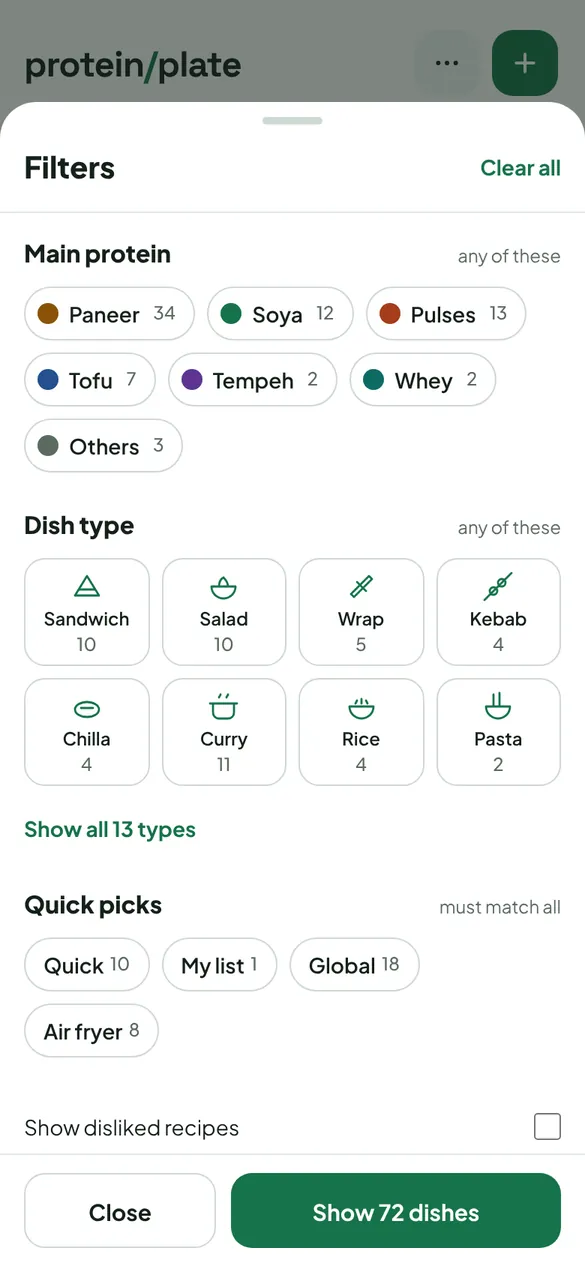
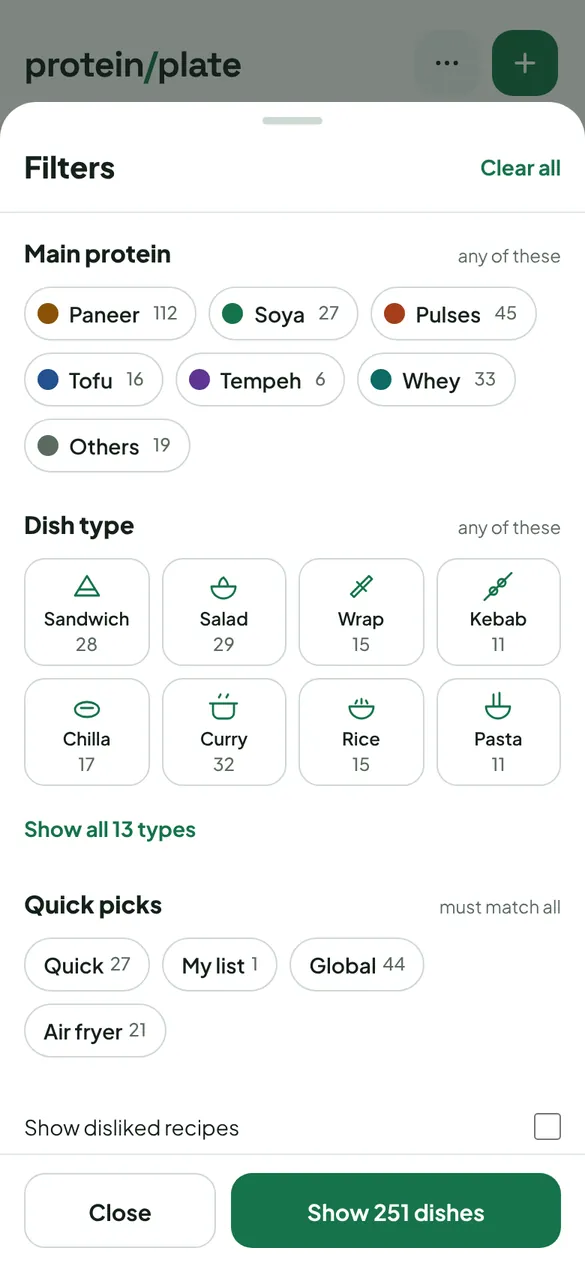
README round 2, catalog.json, branch rulesets
README (Jatin's review):
- no "§"; backlog link in plain words
- "How it works" Mermaid with short two-line labels (GitHub's font
  clipped the long ones)
- "Run your own copy" opens with why: your recipes, your rules, your AI
  workflows, your feedback inbox, free and independent
- new "Feedback and ideas" section: in-app, email, GitHub issue
- new "Use the catalog with any AI": why recipes are JSON, the three
  ways in (Export prompt, catalog.txt, catalog.json), a chat example
  and a real jq example on the live JSON, ideas to build on it
- screenshots regenerated from the current catalog (259 recipes)

Build: also writes catalog.json (main catalog, structured, no personal
data); service worker leaves it to the network. e2e test added.

.github/rulesets/: two importable rulesets for main (no force-push or
deletion; PR + green `check`, admin bypass so GitHub-editor commits keep
working) with import steps. Sessions can't change repo settings.

Also merged main (B3 batch 2 + BL6 archive). Feedback log #2 ("(Jatin)"
in footnotes) marked fixed by Track B in PR 25.

Claude-Session: https://claude.ai/code/session_01Qwkn8yZAbjE228CGzZT6xB

diff --git a/vite.config.ts b/vite.config.ts
@@ -8,7 +8,7 @@ import { readTokens } from './scripts/build/tokens';
 import { ogImage } from './scripts/build/og';
 import { readRecipes, recipeCard, withMeta, writePage } from './scripts/build/pages';
 import { splitArchived } from './src/lib/archive';
-import { catalogText } from './src/lib/export';
+import { catalogFile, catalogText } from './src/lib/export';
 
 // Everything that differs between forks comes from site.config.json.
 // BASE_PATH overrides base_path (e.g. "/" for a custom domain).
@@ -66,8 +66,8 @@ export default defineConfig({
         globPatterns: ['**/*.{js,css,html,woff2,png}'],
         globIgnores: ['og/**', 'r/**', 'my/**', 'review/**', 'archive/**', 'add/**', 'export/**', '404.html'],
         navigateFallback: `${base}index.html`,
-        // Opening /catalog.txt must reach the real file, not the app shell.
-        navigateFallbackDenylist: [/\/catalog\.txt$/],
+        // Opening /catalog.txt or /catalog.json must reach the real file, not the app shell.
+        navigateFallbackDenylist: [/\/catalog\.(txt|json)$/],
         cleanupOutdatedCaches: true,
       },
     }),
@@ -82,7 +82,7 @@ export default defineConfig({
     },
     {
       // Static pages with link previews: r/<id>/ for every recipe, plus my/, review/, archive/, add/ and export/ (PLAN A6, A7),
-      // and catalog.txt: every recipe as plain text for AI tools that can read a link (PLAN A7).
+      // catalog.txt (plain text for AI tools that can read a link, PLAN A7) and catalog.json (the same, structured).
       name: 'static-pages',
       apply: 'build',
       async closeBundle() {
@@ -116,6 +116,8 @@ export default defineConfig({
         writePage(dist, 'add', withMeta(index, { ...homeMeta(recipes.length), title: `Add recipes · ${site.title}`, url: `${siteUrl}add/`, noindex: true }));
         writePage(dist, 'export', withMeta(index, { ...homeMeta(recipes.length), title: `Export catalog · ${site.title}`, url: `${siteUrl}export/`, noindex: true }));
         writeFileSync(join(dist, 'catalog.txt'), catalogText(recipes, siteUrl, site.title));
+        // The same main catalog as structured JSON (no personal data), for scripts, spreadsheets and AI tools.
+        writeFileSync(join(dist, 'catalog.json'), `${JSON.stringify(catalogFile(recipes, siteUrl, null))}\n`);
         writePage(dist, 'review', withMeta(index, { ...homeMeta(recipes.length), title: `Review · ${site.title}`, url: `${siteUrl}review/`, noindex: true }));
         writePage(dist, 'archive', withMeta(index, { ...homeMeta(recipes.length), title: `Archive · ${site.title}`, url: `${siteUrl}archive/`, noindex: true }));
         console.log(`static-pages: ${all.length} recipe pages + previews (${all.length - recipes.length} archived)`);

diff --git a/tests/e2e/add.spec.ts b/tests/e2e/add.spec.ts
@@ -167,6 +167,16 @@ test.describe('export (phone)', () => {
     expect(body.match(/^## /gm)).toHaveLength(10);
   });
 
+  test('catalog.json: the main catalog as structured JSON, no personal data', async ({ request }) => {
+    const res = await request.get('/catalog.json');
+    expect(res.headers()['content-type']).toContain('application/json');
+    const file = await res.json();
+    expect(file).toMatchObject({ kind: 'protein-plate-catalog', version: 1, count: 10, site: 'https://jatin17solanki.github.io/protein-plate/' });
+    expect(file.recipes).toHaveLength(10);
+    expect(file.recipes.every((r: { archived?: unknown }) => !r.archived)).toBe(true);
+    expect('personal' in file).toBe(false);
+  });
+
   test('download JSON saves every recipe', async ({ page }) => {
     await page.goto('/export/');
     const [download] = await Promise.all([page.waitForEvent('download'), page.getByRole('button', { name: 'Download JSON' }).click()]);

diff --git a/README.md b/README.md
@@ -21,10 +21,12 @@
 ## Contents
 
 - [Features](#features)
+- [Use the catalog with any AI](#use-the-catalog-with-any-ai)
 - [What it's for](#what-its-for)
 - [Roadmap](#roadmap)
 - [How it works](#how-it-works)
 - [Run your own copy](#run-your-own-copy)
+- [Feedback and ideas](#feedback-and-ideas)
 - [Develop](#develop)
 - [Credits and licence](#credits-and-licence)
 
@@ -59,6 +61,50 @@
 
 ---
 
+## Use the catalog with any AI
+
+Every recipe is stored as **structured data** (JSON), not as a web page: title, protein and calories per portion, main protein, meals, tags, every ingredient with its amount, the steps and the video link. That makes the catalog something an AI, a script or a spreadsheet can filter, add up and plan with, not just read.
+
+There are three ways in:
+
+| | What you get | Good for |
+|---|---|---|
+| **Prompt** | App → Menu → Export → *Copy prompt + catalog* | Any chat (ChatGPT, Claude, Gemini): paste and ask |
+| **Link** | [`catalog.txt`](https://jatin17solanki.github.io/protein-plate/catalog.txt): every recipe as plain text | AI tools that read links; a Claude Project or custom GPT as its "knowledge" |
+| **JSON** | [`catalog.json`](https://jatin17solanki.github.io/protein-plate/catalog.json): every recipe as structured data | Scripts, automations, spreadsheets, your own app |
+
+**Example: ask a chat.** Paste the Export prompt, then:
+
+> *"Cook's away today and I need something quick with at least 30 g protein. Pick one."*
+
+The AI answers only from the catalog, gives the protein per portion and why it fits, and ends with **"Open the recipe:"** and the link. When a question is open-ended, it first asks up to two short questions (which meal? how much time?).
+
+**Example: use the JSON.** Quick breakfasts with at least 25 g protein, straight from the live catalog:
+
+```sh
+curl -s https://jatin17solanki.github.io/protein-plate/catalog.json \
+  | jq -r '.recipes[]
+      | select(.tags | index("quick")) | select(.meal_types.values | index("breakfast"))
+      | select(.per_portion.protein_g >= 25)
+      | "\(.per_portion.protein_g) g  \(.title)"' | sort -rn
+```
+```
+45 g  Chocolate Greek Yogurt Bowl with Strawberries and Muesli
+40 g  Peri Peri Paneer Sandwich
+40 g  Iced Coffee Protein Smoothie
+35 g  Besan Toast Breakfast Sandwich
+…
+```
+
+**Ideas to build on it:**
+- A weekly plan that hits your protein target, with a shopping list. Use a Claude Project or custom GPT with `catalog.txt` as its knowledge.
+- A daily "what's for dinner?" message, from a scheduled script that reads `catalog.json` and asks the AI you already use.
+- A spreadsheet of protein per rupee, or per minute of cooking. Import `catalog.json`.
+
+Your notes, list and likes aren't in these public files. Tick *Include my notes…* in Export to add them to a prompt or file you copy yourself.
+
+---
+
 ## What it's for
 
 | Situation | What helps |
@@ -84,7 +130,7 @@
 | Share, add recipes, ask an AI | Shopping list for the week | |
 | Offline, Home Screen, dark mode | Suggestions for something new to try | |
 
-More in [`docs/CONTEXT.md` § Backlog](docs/CONTEXT.md).
+Full list of later ideas: [backlog](docs/CONTEXT.md#11-backlog-v2-and-later--keep-dont-build-yet).
 
 ---
 
@@ -92,14 +138,14 @@ More in [`docs/CONTEXT.md` § Backlog](docs/CONTEXT.md).
 
 ```mermaid
 flowchart TD
-    A["Reel + caption"] --> B["AI chat writes the recipe"]
-    B --> C["Add recipes screen checks it"]
-    C --> D["Recipe file saved on GitHub"]
-    D --> E{"Automatic checks:<br/>format, tests, build"}
-    E -- pass --> F["Live site on GitHub Pages"]
-    E -- fail --> X["Not published"]
-    F --> G["Your phone, also offline"]
-    G -.-> H[("Notes, My list, likes:<br/>stay on your device")]
+    A["Reel<br/>+ caption"] --> B["AI chat<br/>writes recipe"]
+    B --> C["App<br/>checks it"]
+    C --> D["Saved to<br/>GitHub"]
+    D --> E{"Auto<br/>checks"}
+    E -- pass --> F["Live<br/>site"]
+    E -- fail --> X["Not<br/>published"]
+    F --> G["Your phone<br/>(offline too)"]
+    G -.-> H[("Notes, lists<br/>stay on device")]
 ```
 
 - **No server, no database.** Each recipe is one file in this repository. The site is built from those files and hosted free on GitHub Pages.
@@ -121,6 +167,15 @@ flowchart TD
 
 ## Run your own copy
 
+**This site is my personal catalog.** Anyone can use it, and your notes, list and likes stay private on your device. But you can't add recipes to it; you can only suggest them.
+
+**Your own copy is yours:**
+- **Your recipes:** the reels *you* save, the dishes your family eats, the creators you follow. Add one from your phone in a minute.
+- **Your rules:** rename it in one config file, keep only what you cook, and change anything else in the code (it's MIT licensed).
+- **Your AI workflows** run on your own list (see [Use the catalog with any AI](#use-the-catalog-with-any-ai)).
+- **Your feedback inbox:** "Send feedback" goes to you, not me.
+- **Free and independent:** no server, no account, no bill. If this repo disappears, your copy keeps working.
+
 You need a free GitHub account. It takes about 15 minutes.
 
 1. **Fork** this repository.
@@ -128,6 +183,7 @@ You need a free GitHub account. It takes about 15 minutes.
 3. Edit **`site.config.json`** with your name, repo and address (see below).
 4. Keep the recipes, or replace the files in `data/recipes/` with your own, added through the app's **Add recipes** screen.
 5. Commit. About 2 minutes later your site is live.
+6. *Optional:* protect `main` with the two rulesets in [`.github/rulesets/`](.github/rulesets/) (one-minute import).
 
 <details>
 <summary><code>site.config.json</code></summary>
@@ -150,6 +206,16 @@ You need a free GitHub account. It takes about 15 minutes.
 - `base_path`: use `/` for a custom domain.
 
 </details>
+
+---
+
+## Feedback and ideas
+
+Found something wrong, or have an idea for a feature? I'd love to hear it.
+
+- **In the app:** Menu → **Send feedback**, or the link at the bottom of any recipe. It fills in the page and your device for you.
+- **Email:** [jatin.dev.17@gmail.com](mailto:jatin.dev.17@gmail.com?subject=Protein%20Plate%20feedback)
+- **GitHub:** [open an issue](https://github.com/Jatin17Solanki/protein-plate/issues/new?labels=feedback&title=Protein%20Plate%20feedback) (public; needs a free account)
 
 ---
 
@@ -196,4 +262,3 @@ Recipes come from public posts by their original authors. Every recipe credits i
 - **Code:** MIT, see [`LICENSE`](LICENSE).
 - **Recipes and videos:** belong to their authors. They are not covered by the MIT licence.
 
-**Feedback:** use **Send feedback** in the app menu, or [open an issue](https://github.com/Jatin17Solanki/protein-plate/issues/new).

diff --git a/docs/MANUAL-TEST.md b/docs/MANUAL-TEST.md
@@ -183,6 +183,7 @@ For anything that surprises you, write one line, in the journey's **Feedback** b
    - Also try "plan my day to reach 110 g": for recipes without creator numbers it asks once whether to leave them out ("not counted") or use its "≈ estimate", shown apart from the real numbers.
 3. Tick **Include my notes, My list and Like / Dislike**, copy again. **See:** the pasted text now explains "My data" and each recipe line carries your list / likes / notes. Untick: neither is there.
 4. **Copy link** → open it in a browser. **See:** `catalog.txt`, every recipe as plain text, no personal data. Give the link to an AI tool that can read links and ask a question.
+   - Also open `…/protein-plate/catalog.json`. **See:** the same recipes as structured JSON (no personal data). The README's `curl … | jq` example prints quick breakfasts with ≥ 25 g protein.
 5. **Download JSON**. **See:** `protein-plate-catalog-<date>.json` in Files / Downloads.
 
 **Feedback J8**
@@ -280,7 +281,7 @@ For anything that surprises you, write one line, in the journey's **Feedback** b
 | # | Where | Device | Kind | What happened / what you expected | Decision (after the test) |
 |---|---|---|---|---|---|
 | 1 | J3.4 | all | bug | Found while writing this plan (2026-10-21): "curd" finds 14 dishes, "dahi" only 5 (only those with the word "dahi"). Search still uses the A3 built-in synonym list instead of the aliases in `data/ingredients.json`. | |
-| 2 | J1.5 | all | confusing | Found while taking README screenshots (2026-10-21): about 25 recipes' macro footnote reads e.g. "As stated by the creator (whole recipe — one portion (Jatin))": the portion decision and Jatin's name leak into visible text (`stated_macros.basis`, Track B data). | |
+| 2 | J1.5 | all | confusing | Found while taking README screenshots (2026-10-21): about 25 recipes' macro footnote reads e.g. "As stated by the creator (whole recipe — one portion (Jatin))": the portion decision and Jatin's name leak into visible text (`stated_macros.basis`, Track B data). | Fixed by Track B in PR 25 (basis now "whole recipe — one portion"). |
 | 3 | | | | | |
 
 ---

diff --git a/docs/DECISIONS.md b/docs/DECISIONS.md
@@ -121,3 +121,5 @@ Append-only. Format: `YYYY-MM-DD · decision · why · who`. Full reasoning for 
 - 2026-10-21 · Feedback address is jatin.dev.17@gmail.com, stored as `feedback_email` in `site.config.json` (public in the repo and the site). "Send feedback" sits in the menu and at the bottom of every recipe; the sheet offers Email (primary) and GitHub issue, both pre-filled with page, recipe and device type (no other personal data). A fork with no `feedback_email` gets GitHub only · BL4 · Jatin
 - 2026-10-21 · README (BL3) states that recipes belong to their creators (credited and linked, creator's own words and numbers, not covered by the MIT licence) and invites creators to ask for changes or removal via Send feedback · BL3 · Jatin, Claude
 - 2026-10-21 · README is visual and short: real app screenshots (`docs/readme/`, regenerated by `scripts/readme-shots.ts`), a contents list, a feature gallery, roadmap table and a Mermaid diagram; data rules (creator's numbers only etc.) stay out of it and live in DECISIONS; credits are one neutral paragraph · Jatin found the first version a text dump · Jatin
+- 2026-10-21 · The build also publishes `catalog.json` (main catalog, structured, no personal data) next to `catalog.txt`; the README's "Use the catalog with any AI" section shows the three ways in (Export prompt, catalog.txt link, catalog.json) with a real `jq` example · the JSON format is the point: AI tools and scripts can filter, total and plan with it · Jatin
+- 2026-10-21 · Branch protection as two importable rulesets in `.github/rulesets/`: no force-push/deletion of `main` (no bypass), and PR + green `check` for `main` with admin bypass so Jatin's GitHub-editor commits (Add recipes, Edit) keep working; no approvals required (single owner). Claude sessions can't change repo settings, so Jatin imports them · Jatin asked to protect main · Jatin, Claude

diff --git a/docs/handoff/track-a.md b/docs/handoff/track-a.md
@@ -7,6 +7,8 @@ _Last updated: 2026-10-21 (BL3 + BL4 session)_
 **Done (BL3 + BL4, PR open):**
 - BL4: `src/lib/feedback.ts` (pure: `describeDevice`, `feedbackBody`, `mailtoUrl`, `issueUrl`), `src/components/FeedbackSheet.tsx`; Menu → "Send feedback" (Home opens the sheet after closing the menu) and a "Send feedback" link at the bottom of every recipe (`col-c`). `site.config.json` gains `feedback_email` (empty → GitHub only). UI icon `message`. The GitHub `feedback` label only applies if the label exists in the repo and for people who can triage.
 - BL3: README rebuilt after Jatin's review ("text dump"): header + 3 real screenshots, contents, 6-shot feature gallery, journeys table, roadmap table, Mermaid flow, short credits; details in `<details>`. No data-rule or creator commentary in it (those live in DECISIONS). Screenshots: `docs/readme/*.webp`, regenerate with `scripts/readme-shots.ts` (see its header) when the UI changes.
+- README review round 2: no "§", short-label Mermaid (GitHub's font clipped long ones), "why run your own copy", Feedback and ideas section (email), "Use the catalog with any AI" (prompt / catalog.txt / catalog.json + real jq example). Build now also writes `dist/catalog.json` (`catalogFile(recipes, …, null)`, compact; SW denylist covers it).
+- Branch protection: `.github/rulesets/*.json` + README there; Jatin imports them (sessions can't change settings).
 - Tests: `tests/unit/feedback.test.ts`; feedback sheet in the sheets screenshot matrix and the a11y spec; two e2e flows. Manual test J13.
 
 **Done before:** A1–A8, BL1, BL2, BL5 merged (BL5: Export copies `prompts/ask-catalog.md` via `askPrompt(prompt, …)`) (BL2: whole-dish numbers only on the recipe page, `portionProtein`) (BL1: Others protein, video-only, accepted flags, estimate box) (A8 QA report: `docs/QA.md`; manual plan: `docs/MANUAL-TEST.md`).

diff --git a/.github/rulesets/README.md b/.github/rulesets/README.md
@@ -1,0 +1,15 @@
+# Branch protection for `main`
+
+Two GitHub rulesets, ready to import. GitHub doesn't read these files on its own; importing them takes about a minute.
+
+| File | What it does | Who can bypass |
+|---|---|---|
+| `main-no-force-push.json` | `main` can't be deleted or force-pushed (history can't be rewritten). | Nobody |
+| `main-pr-and-ci.json` | Changes reach `main` through a pull request, and only when the CI job `check` is green. No approval is required, so you can merge your own PRs. | Repository admins (you), so committing a recipe from GitHub's editor ("Add recipes", "Edit on GitHub") still works: GitHub shows a "Bypass rules" checkbox. |
+
+## Import
+1. Repo → **Settings → Rules → Rulesets → New ruleset → Import a ruleset**.
+2. Choose `main-no-force-push.json` → **Create**.
+3. Repeat with `main-pr-and-ci.json`.
+
+Stricter option: in the second ruleset, remove yourself from **Bypass list**. Then every change, including recipes added from the app, goes through a pull request, which you merge after CI is green.

diff --git a/docs/TRACKER.md b/docs/TRACKER.md
@@ -57,4 +57,5 @@ Update your own row at the end of every session. Track A sessions edit only the 
 | Review schema in A1 PR | A1 |
 | Review 10 normalised recipes (B1), confirm duplicate lists (B2, B3) | per PR |
 | Send new scrape (B3), incomplete details + oats (B4) | when ready |
+| Import the two branch rulesets for `main` (`.github/rulesets/README.md`, ~1 min) | after PR 28 merges |
 | Manual test by user journey (`docs/MANUAL-TEST.md`, J1–J12, ~2 h, any order); log feedback, then a triage session decides fix / later / won't fix | once, at the end (when both tracks are done) |
